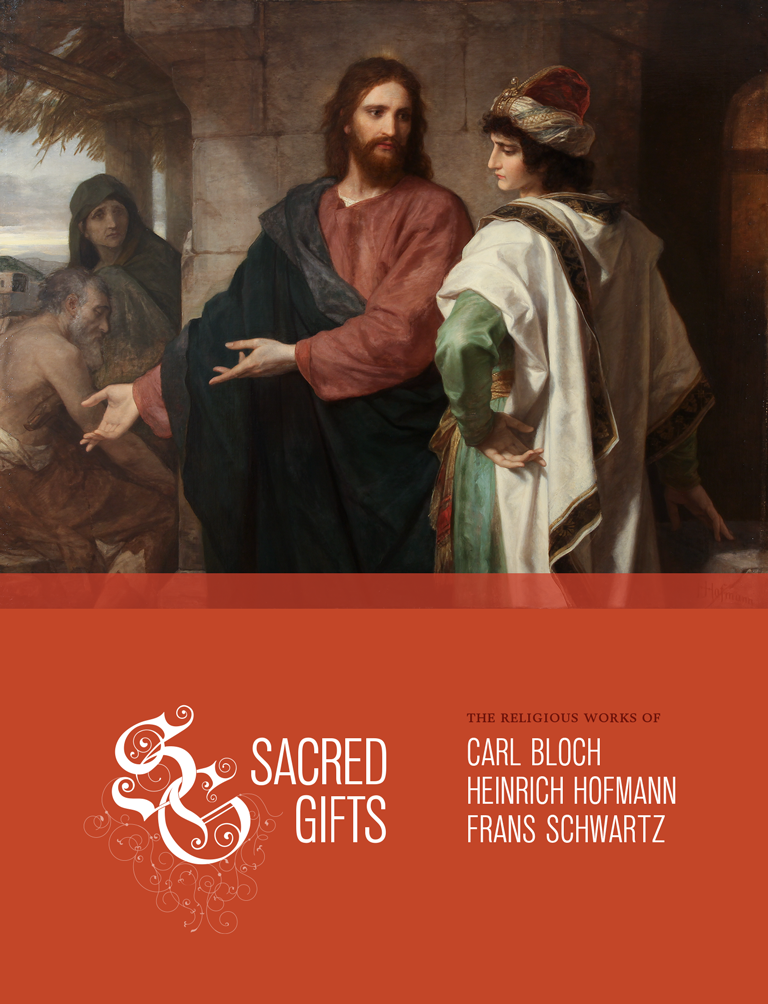
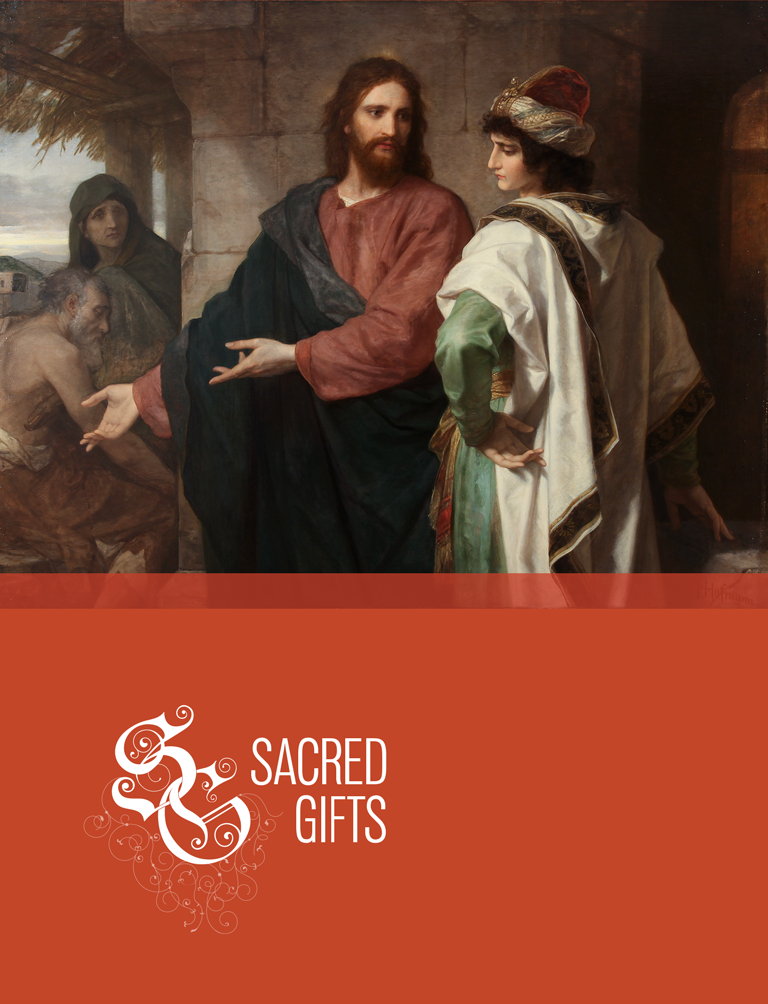
Double splash screen with tap-through

Changed region(s): [[0.5938, 0.7102, 0.9062, 0.8645]]

diff --git a/samples/SacredGifts/SGViewController.m b/samples/SacredGifts/SGViewController.m
@@ -11,7 +11,12 @@
 #import "SGConstants.h"
 
 @interface SGViewController ()
+{
+    NSTimer* _donorsTimer;
+    NSTimer* _splashTimer;
+}
 - (void)fadeSplash: (NSTimer*)timer;
+- (void)fadeInDonors: (NSTimer*)timer;
 @end
 
 @implementation SGViewController
@@ -26,21 +31,42 @@
         homeC.delegate = self;
     
         [self displayContentController:homeC];
-    
-        [NSTimer scheduledTimerWithTimeInterval:5 target:self selector:@selector(fadeSplash:) userInfo:nil repeats:NO];
+        
+        NSLog(@"self.splashArtists");
+        [UIView animateWithDuration:1 animations:^{
+            self.splashArtists.alpha = 1;
+        }];
+
+        _donorsTimer = [NSTimer scheduledTimerWithTimeInterval:3 target:self selector:@selector(fadeInDonors:) userInfo:nil repeats:NO];
+        _splashTimer = [NSTimer scheduledTimerWithTimeInterval:7 target:self selector:@selector(fadeSplash:) userInfo:nil repeats:NO];
     }
+}
+
+-(void)fadeInDonors:(NSTimer *)timer
+{
+    [_donorsTimer invalidate];
+    
+    [UIView animateWithDuration:0.5 animations:^{
+        self.splashDonors.alpha = 1;
+    }];
 }
 
 -(void)fadeSplash:(NSTimer *)timer
 {
+    [_splashTimer invalidate];
+    
     [UIView animateWithDuration:0.5 animations:^{
         self.splash.alpha = 0;
+        self.splashArtists.alpha = 0;
+        self.splashDonors.alpha = 0;
     }];
 }
 
 -(void)touchesBegan:(NSSet *)touches withEvent:(UIEvent *)event
 {
-    if( self.splash.alpha > 0 )
+    if( self.splashDonors.alpha == 0)
+        [self fadeInDonors:nil];
+    else if( self.splash.alpha > 0 )
         [self fadeSplash:nil];
 }
 @end

diff --git a/samples/SacredGifts/Painting Controllers/SGPaintingViewController.m b/samples/SacredGifts/Painting Controllers/SGPaintingViewController.m
@@ -84,7 +84,7 @@ const int kPerspectivesButtonWidth = 161;
 
 -(void)addFooterButtonsForPainting:(NSString *)paintingNameStr
 {
-    NSArray* buttonTypeStrArr = [NSArray arrayWithObjects: kSummaryStr, kGiftsStr, kPerspectiveStr, kMusicStr, kChildrensStr, kDetailsStr, nil];
+    NSArray* buttonTypeStrArr = [NSArray arrayWithObjects: kSummaryStr, kPerspectiveStr, kGiftsStr, kChildrensStr, kDetailsStr, kMusicStr, nil];
     
     for( NSString* buttonTypeStr in buttonTypeStrArr)
     {

diff --git a/samples/SacredGifts/SGViewController.h b/samples/SacredGifts/SGViewController.h
@@ -11,5 +11,7 @@
 
 @interface SGViewController : SGNavigationContainerViewController
 @property (weak, nonatomic) IBOutlet UIImageView *splash;
+@property (weak, nonatomic) IBOutlet UIImageView *splashArtists;
+@property (weak, nonatomic) IBOutlet UIImageView *splashDonors;
 
 @end
